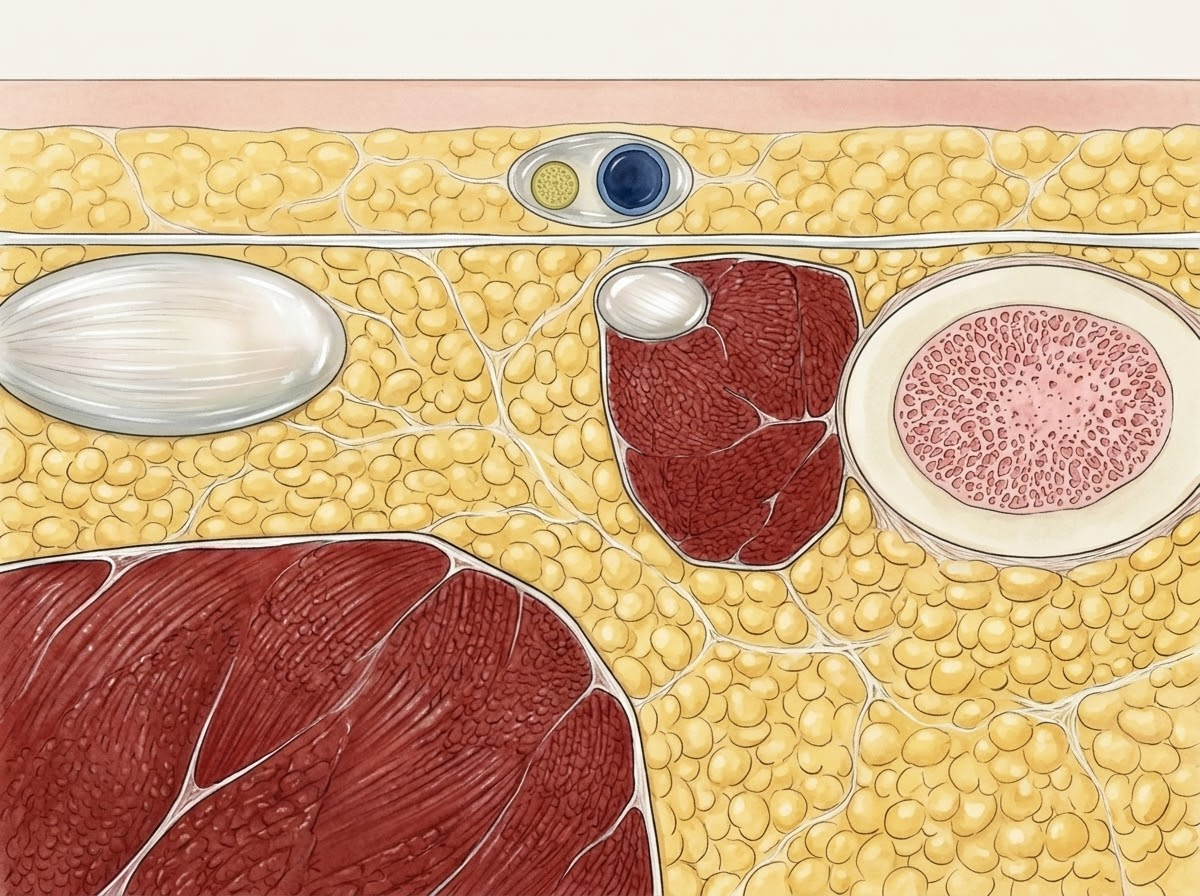
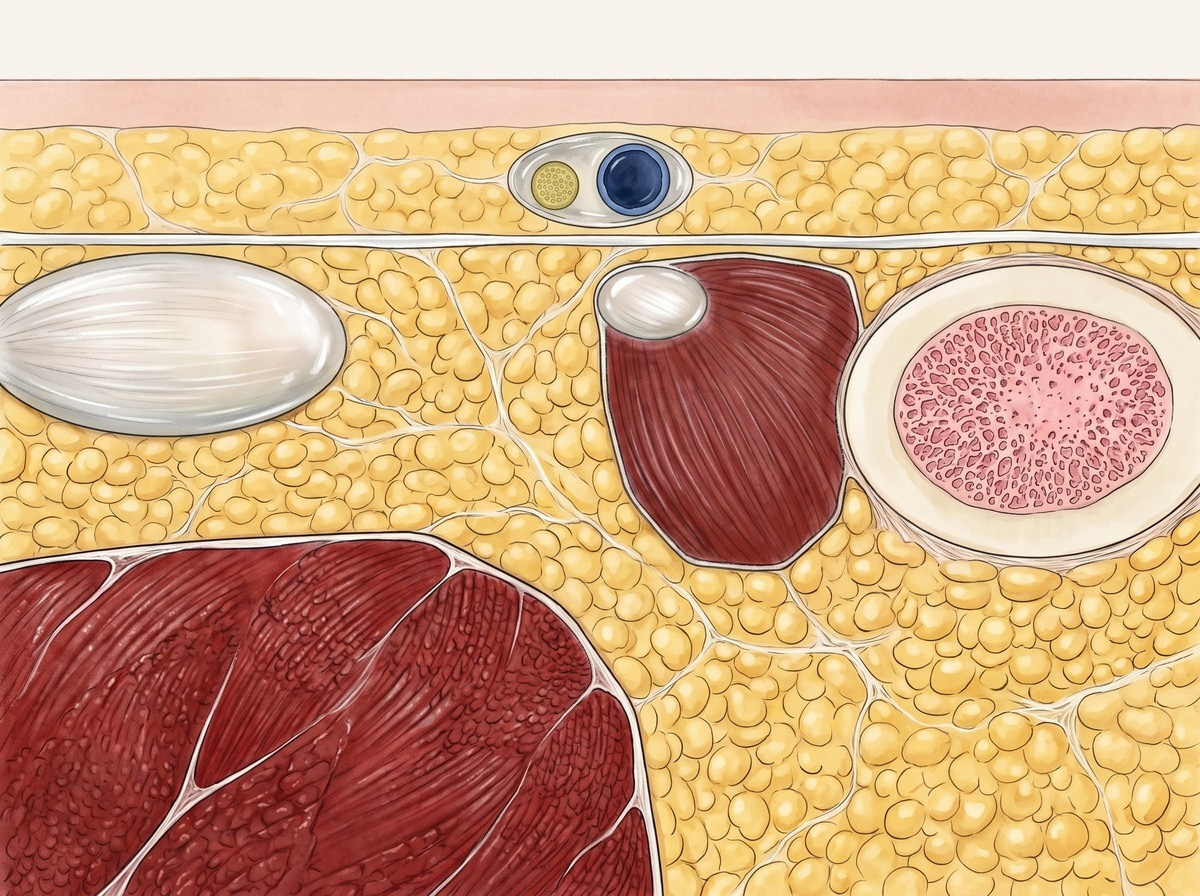
Sural section on the repaired painting; thoracentesis site on the leaning-forward back (review drafts)

diff --git a/visuals/thoracentesis_site/draw.py b/visuals/thoracentesis_site/draw.py
@@ -1,8 +1,10 @@
 """Thoracentesis - entry site on the back, with an over-the-rib inset (painted base, code-drawn markings).
 
-Base (make_base.py): the owner's Gemini edit of the ESP positioning photo
-with the probe, needle and tubing removed - the bare back of a seated adult
-from behind, the patient's right on the image right - plus, in the lower
+Base (make_base.py): the owner's Gemini edits of the ESP positioning photo -
+equipment removed, then re-posed seated and leaning forward over a padded
+bedside table with the forearms on a pillow (the record's position, which
+drops the scapula) - the bare back from behind, the patient's right on the
+image right - plus, in the lower
 left, an inset cropped from the approved chest_tube_rib_anatomy painting
 (one intercostal space in coronal section, skin left, head up).
 
@@ -12,10 +14,10 @@ nerve in the costal groove and is not reliably protected posteriorly, so
 stay as lateral or anterior as the target allows; on the right the liver is
 at risk below the 9th rib posteriorly.
 
-Traced on the clean back (canvas px): C7 prominence (800, 290); spine down
-the midline x = 800; the right scapula's medial border fades out toward its
-inferior angle near (1130, 880); the right flank edge near x = 1290 at the
-level of the site. About 3 px/mm (acromion to acromion about 40 cm).
+Traced on the leaning-forward back (canvas px): C7 prominence (800, 290);
+spine down the midline x = 800 to the waist at y = 1100; the right flank edge
+near x = 1100 at the level of the site. About 2 px/mm (shoulder to shoulder
+about 40 cm); the scapular tip, near T7, lies about y = 630.
 
 Code-drawn: the marked site on the right posterolateral chest below the
 scapular tip and toward the flank (a typical site; the level is set by
@@ -39,8 +41,8 @@ ASSET_ID = "thoracentesis_site"
 BASE = Path(__file__).with_name("base.jpg")
 BASE_SIZE = (1200.0, 896.0)
 
-SITE = (1180.0, 950.0)
-CHEST_RIGHT = [(800, 300), (1290, 300), (1395, 420), (1300, 640), (1290, 1195), (800, 1195)]
+SITE = (1015.0, 735.0)
+CHEST_RIGHT = [(800, 300), (1100, 300), (1200, 420), (1250, 640), (1105, 800), (1095, 1100), (800, 1100)]
 INSET = (64, 690, 504, 1174)
 S = 0.55                                  # inset px per rib-plate canvas px
 
@@ -73,7 +75,7 @@ def build() -> str:
     hub0 = (INSET[0] - 18, n0[1])
     bundle_c = ins((UPPER_BUNDLE[0][0] + UPPER_BUNDLE[1][0]) / 2, (UPPER_BUNDLE[0][1] + UPPER_BUNDLE[1][1]) / 2)
     labels = [
-        Label(["Marked site"], anchor=(1040, 1110), leader=[(1120, 1066), (SITE[0], SITE[1] + 4)], target_id="site", emphasis=True),
+        Label(["Marked site"], anchor=(1130, 900), leader=[(1180, 858), (SITE[0], SITE[1] + 4)], target_id="site", emphasis=True),
         Label(["Vein, artery, nerve"], anchor=(530, 862), leader=[(520, 846), (bundle_c[0], bundle_c[1])], target_id="inset-bundle"),
         Label(["Needle"], anchor=(530, 1010), leader=[(520, 994), (n1[0] - 40, n1[1])], target_id="inset-needle"),
         Label(["Lower rib"], anchor=(530, 1150), leader=[(520, 1134), (rib_c[0] + 20, rib_c[1] + 20)], target_id="inset-lower-rib"),
@@ -89,7 +91,7 @@ def build() -> str:
 <g id="painting" data-base-sha256="{sha}">{base_image}</g>
 <g id="anatomy">
   <polygon id="chest-right" points="{chest}" fill="#000" opacity="0"/>
-  <line id="spine" x1="800" y1="290" x2="800" y2="1195" stroke="#000" stroke-width="10" opacity="0"/>
+  <line id="spine" x1="800" y1="290" x2="800" y2="1100" stroke="#000" stroke-width="10" opacity="0"/>
   <rect id="inset" x="{INSET[0]}" y="{INSET[1]}" width="{INSET[2] - INSET[0]}" height="{INSET[3] - INSET[1]}" fill="#000" opacity="0"/>
   <ellipse id="inset-lower-rib" cx="{fmt(rib_c[0])}" cy="{fmt(rib_c[1])}" rx="{fmt(rx)}" ry="{fmt(ry)}" fill="#000" opacity="0"/>
   {rect("inset-bundle", *UPPER_BUNDLE)}

diff --git a/visuals/thoracentesis_site/make_base.py b/visuals/thoracentesis_site/make_base.py
@@ -1,7 +1,7 @@
 """Build base.jpg for thoracentesis_site: the clean back plus the rib-section inset.
 
-The back is the owner's Gemini edit of the ESP photo with the probe, needle and
-tubing removed (tmp/visual-drafts/antigravity/thoracentesis_site/, gitignored),
+The back is the owner's Gemini re-pose of the clean ESP back: seated, leaning
+forward over a padded bedside table with the arms on a pillow (tmp/visual-drafts/antigravity/thoracentesis_site/, gitignored),
 downscaled to 1200 x 896. The inset is a crop of the approved
 chest_tube_rib_anatomy painting (skin left, head up): the upper rib with its
 bundle, the space, and the lower rib, pasted into the lower left with a white
@@ -16,7 +16,7 @@ from PIL import Image, ImageDraw, ImageFilter
 
 HERE = Path(__file__).resolve().parent
 ROOT = HERE.parents[1]
-BACK = ROOT / "tmp/visual-drafts/antigravity/thoracentesis_site/clean_back_1200.jpg"
+BACK = ROOT / "tmp/visual-drafts/antigravity/thoracentesis_site/owner2_leaning_1200.jpg"
 RIB = ROOT / "visuals/chest_tube_rib_anatomy/base.jpg"
 K = 1600 / 1200                       # canvas px per base px
 OY = (1200 - 896 * K) / 2
